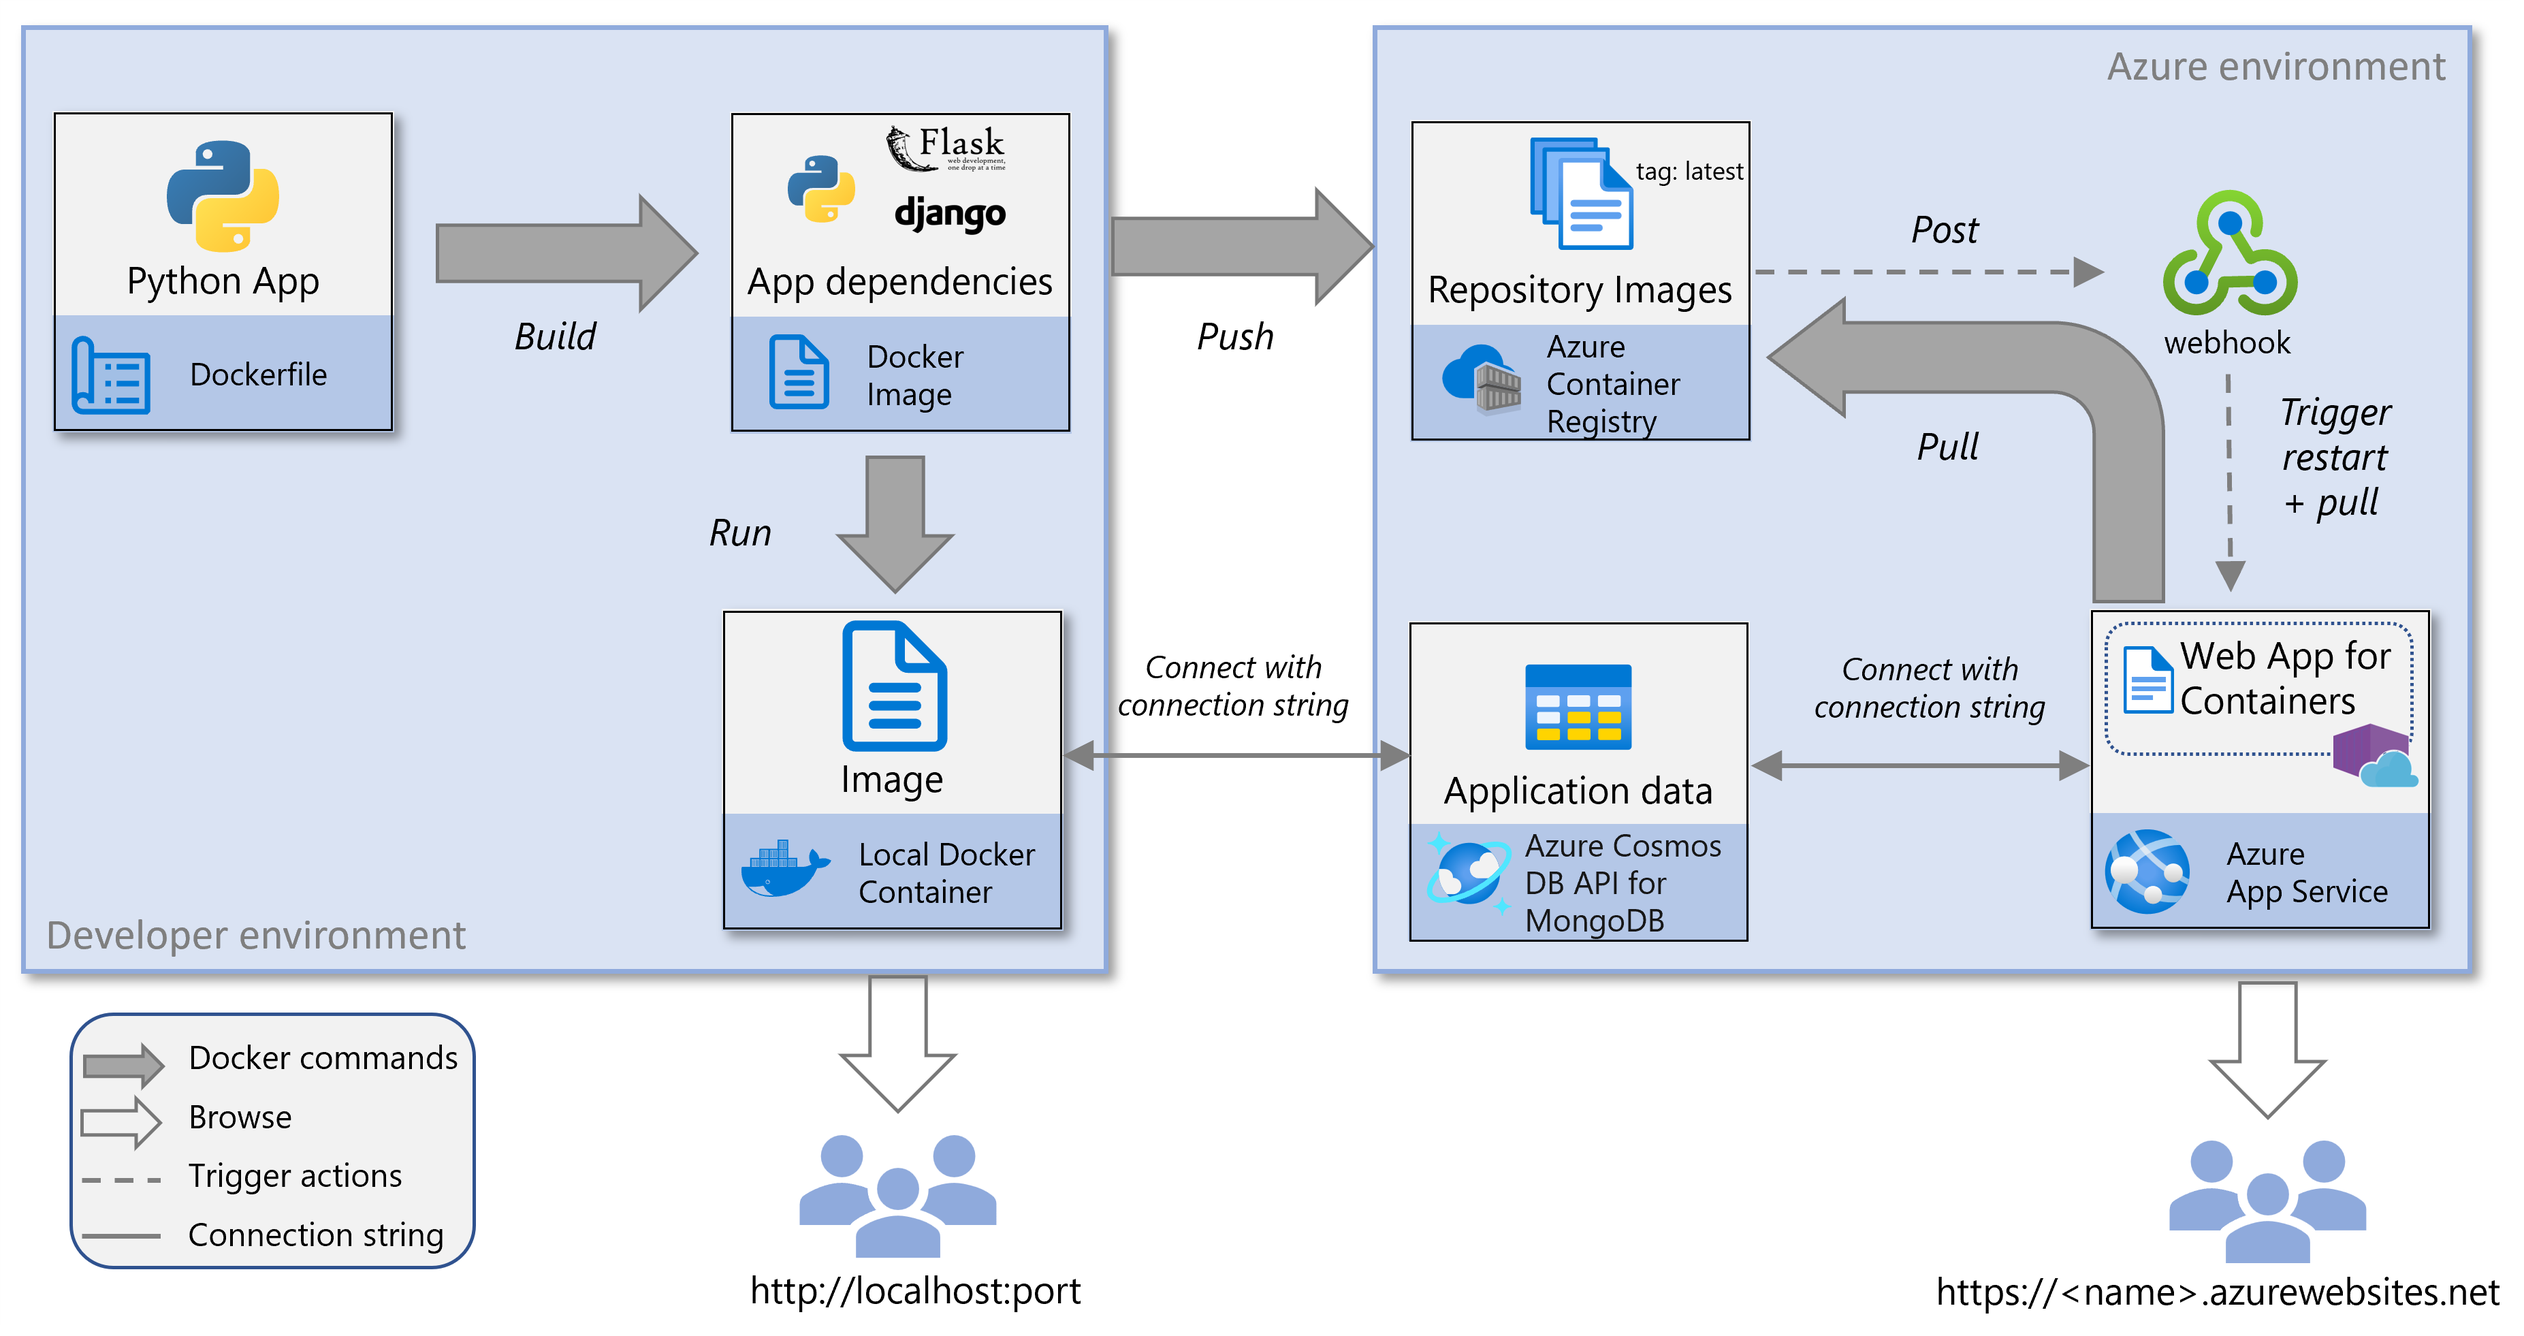
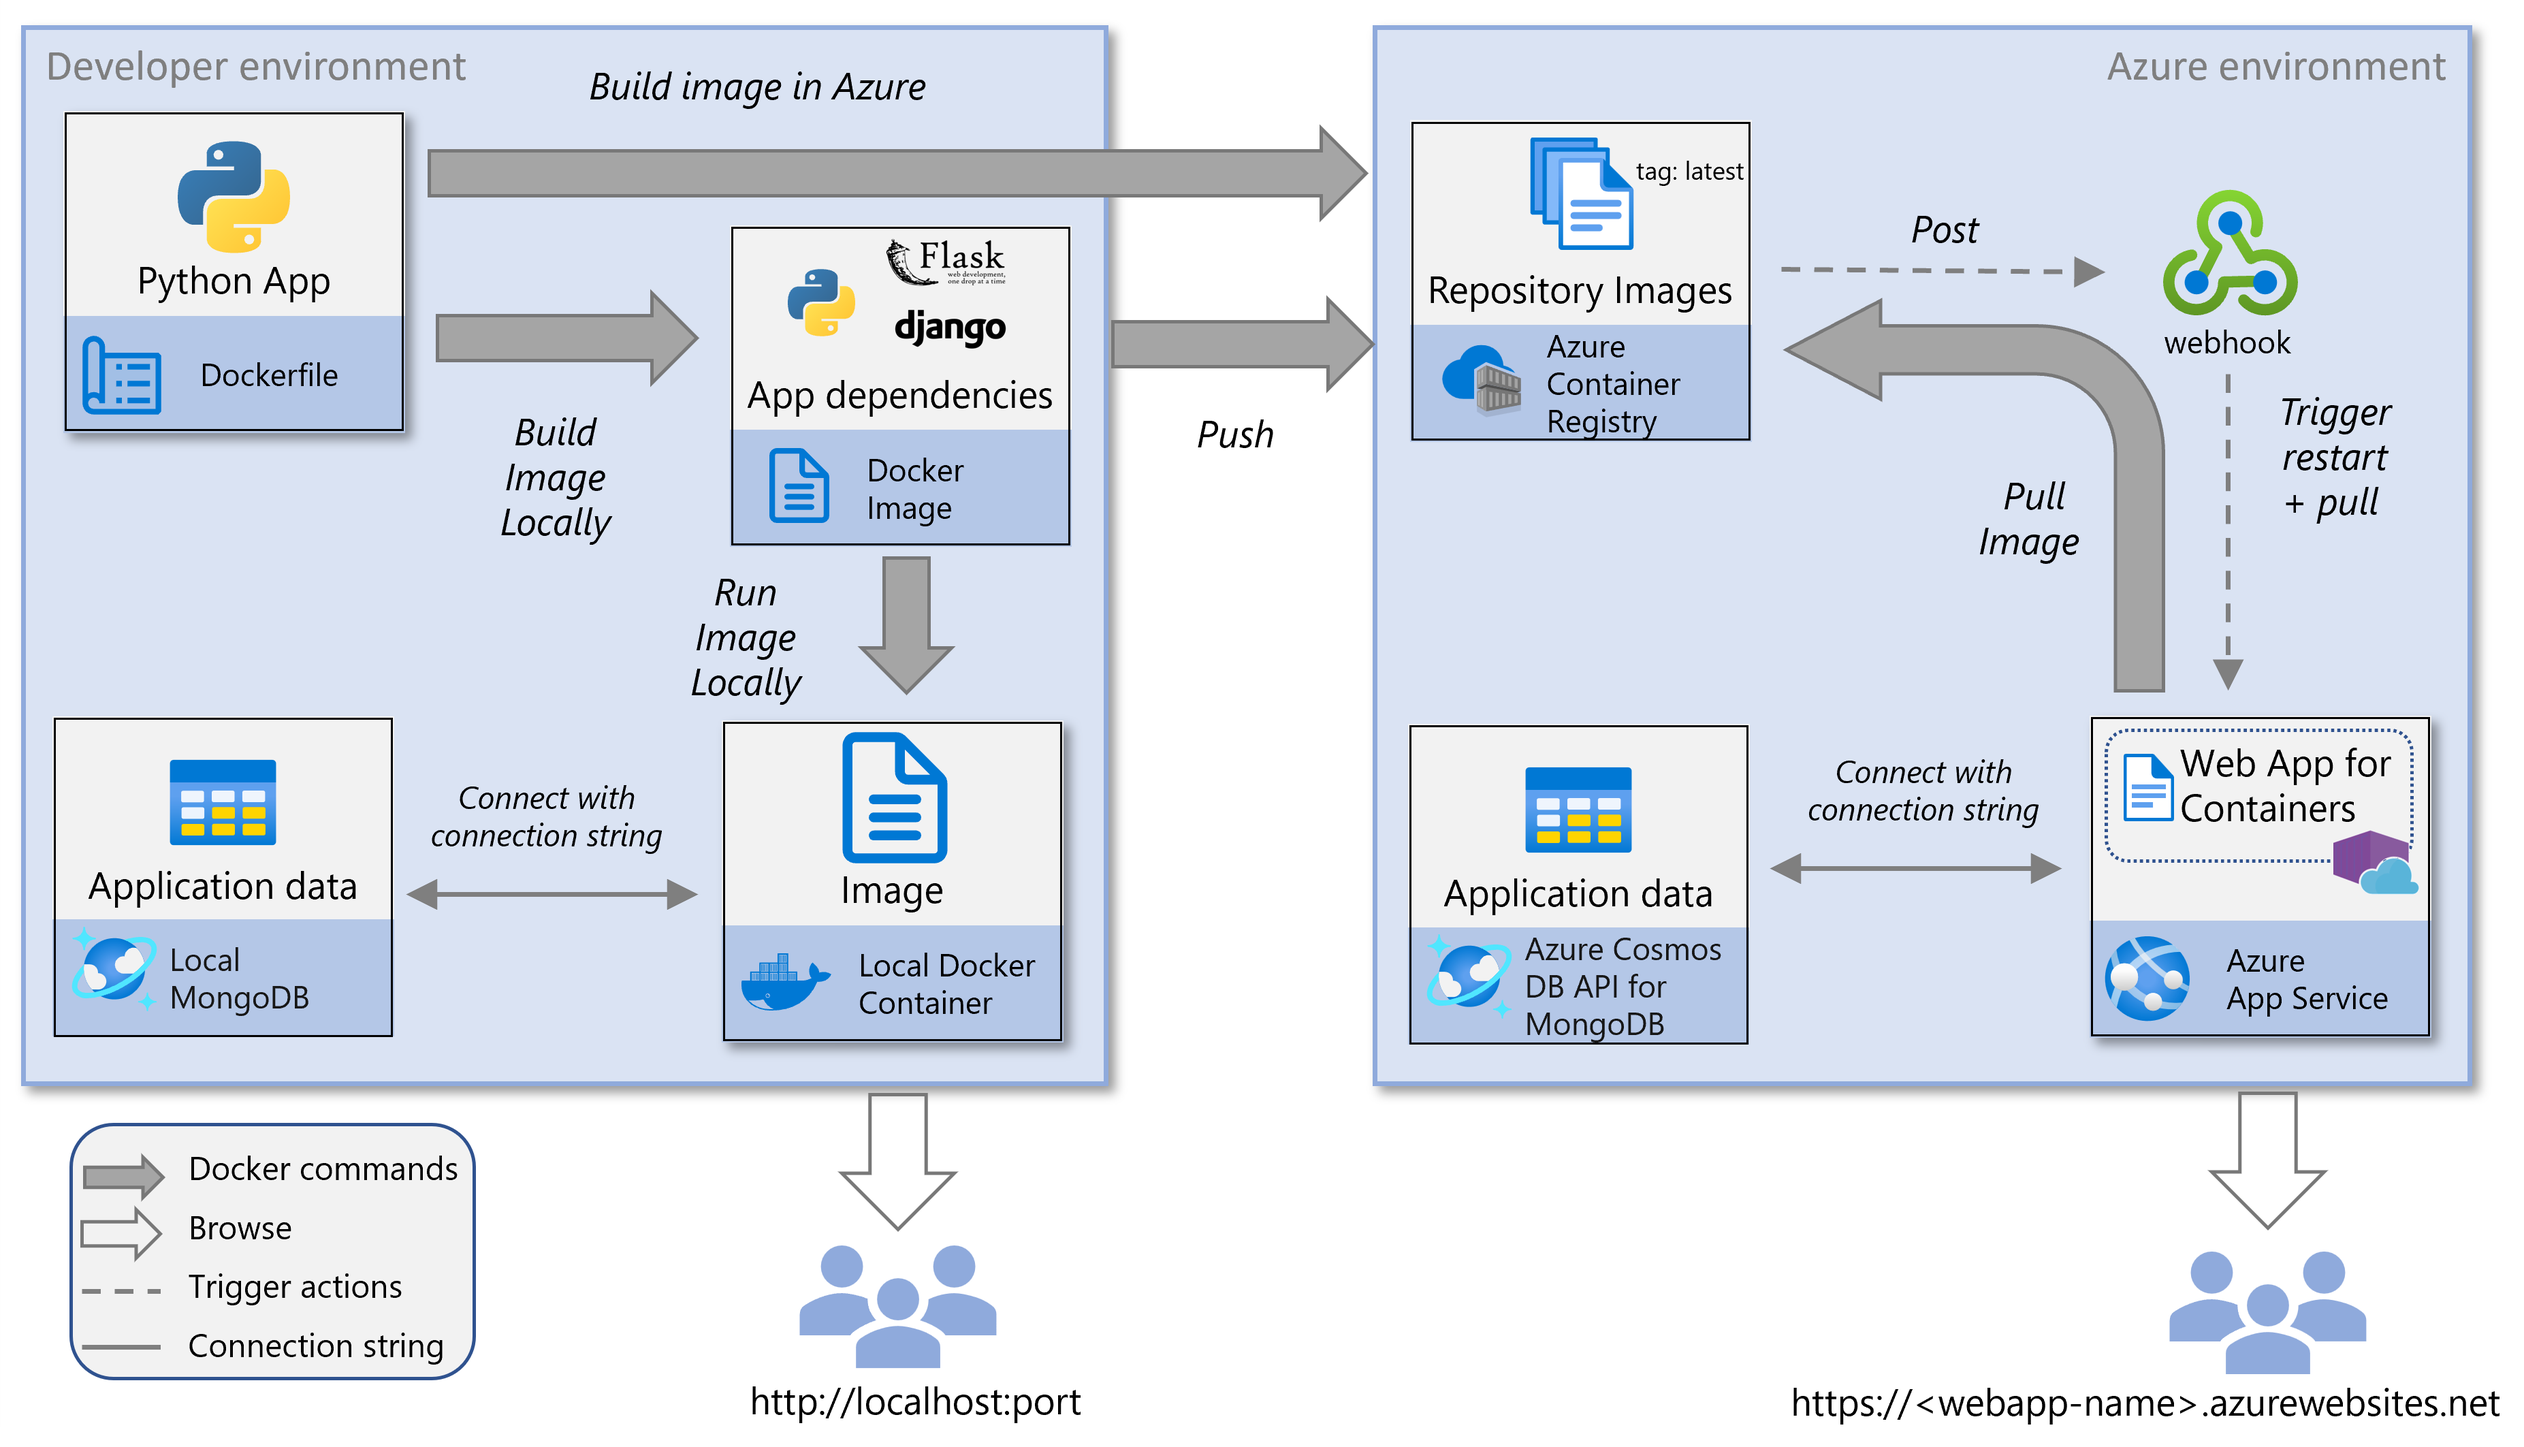
Update image.

diff --git a/articles/python/tutorial-containerize-deploy-python-web-app-azure-01.md b/articles/python/tutorial-containerize-deploy-python-web-app-azure-01.md
@@ -2,7 +2,7 @@
 title: "Tutorial: Containerized Python web apps on Azure"
 description: Overview - Create and deploy a containerized Python web app on Azure
 ms.topic: conceptual
-ms.date: 06/27/2022
+ms.date: 07/15/2022
 ms.custom: devx-track-python
 ms.prod: azure-python
 author: jess-johnson-msft
@@ -11,15 +11,15 @@ ms.author: jejohn
 
 # Overview: Containerized Python web apps on Azure
 
-This tutorial shows how to containerize a Python web app and deploy it to Azure. The single container web app is hosted in [Azure App Service][1] and uses [MongoDB for Azure Cosmos DB][2] to store data. The App Service [Web App for Containers][3] allows you to focus on composing your containers without worrying about managing and maintaining an underlying container orchestrator. Use Web App for Containers when you need more control over the runtime, framework, tooling, and packages of a web-based application.
+This tutorial shows you how to containerize a Python web app and deploy it to Azure. The single container web app is hosted in [Azure App Service][1] and uses [MongoDB for Azure Cosmos DB][2] to store data. The App Service [Web App for Containers][3] functionality allows you to focus on composing your containers without worrying about managing and maintaining an underlying container orchestrator. Use Web App for Containers when you need more control over the runtime, framework, tooling, and packages of a web-based application.
 
 In this tutorial you will:
 
-* Build and run a [Docker][4] container locally.
+* Build and run a [Docker][4] container locally. *This step is optional.*
 
 * Build a [Docker][4] container image directly in Azure.
 
-* Configure App Service to use the Docker container image.
+* Configure an App Service to create a web app based on the Docker container image.
 
 Following this tutorial, you'll have the basis for Continuous Integration (CI) and Continuous Deployment (CD) of a Python web app to Azure.
 
@@ -31,7 +31,7 @@ The service diagram supporting this tutorial shows two environments (developer e
 
 The components supporting this tutorial and shown in the diagram above are:
 
-* Azure App Service
+* [Azure App Service][1]
 
   * The underlying App Service functionality that enables containerization is Web App for Containers. Azure App Service uses the [Docker][4] container technology to host both built-in images and custom images.  In this tutorial, you'll build an image from Python code and deploy it to Web App for Containers.
 
@@ -43,7 +43,7 @@ The components supporting this tutorial and shown in the diagram above are:
 
   * In this tutorial, the registry source is Azure Container Registry, but you can also use Docker Hub or a private registry with minor modifications.
 
-* Azure Cosmos DB API for MongoDB
+* [Azure Cosmos DB API for MongoDB][2]
 
   * The API for MongoDB is a NoSQL database used in this tutorial to store data.
 
@@ -51,9 +51,9 @@ The components supporting this tutorial and shown in the diagram above are:
 
 ## Authentication
 
-In this tutorial, you'll use Docker locally to build a container image and deploy it to Azure App Service. The App Service pulls a container image from an Azure Container Registry repository.
+In this tutorial, you'll use Docker image (built locally or in Azure) and deploy it to Azure App Service. The App Service pulls the container image from an Azure Container Registry repository.
 
-The App Service uses [managed identity][5] to pull images from Azure Container Registry. Managed identity allows you to grant permissions to the web app so that it can access other Azure resources without the need for you to specify credentials. Specifically, this tutorial uses a system assigned managed identity. The managed identity is automatically set up for you when you configure App Service so that publish is from a Docker container.
+The App Service uses [managed identity][5] to pull images from Azure Container Registry. Managed identity allows you to grant permissions to the web app so that it can access other Azure resources without the need for you to specify credentials. Specifically, this tutorial uses a system assigned managed identity. The managed identity is automatically set up for you when you configure App Service with publishing from a Docker container.
 
 The tutorial sample web app also uses MongoDB to store data. The sample code connects to Cosmos DB via a connection string. 
 
@@ -67,9 +67,7 @@ To complete this tutorial, you'll need:
   * [Azure App Service][1] 
   * [MongoDB for Azure Cosmos DB][2] (or access to equivalent). To create an Azure Cosmos DB for MongoDB, you can use the steps for [Azure portal][12], [Azure CLI][13], [PowerShell][14], or [VS Code][15]. The sample tutorial requires that you specify a MongoDB connection string, a database name, and a collection name.
 
-* [Docker][4] installed locally
-
-* Visual Studio Code or Azure CLI
+* [Visual Studio Code][16] or [Azure CLI][17], depending on what tool you'll use.
 
   * For Visual Studio Code with the [Docker extension][6] and [Azure App Service extension][7].
 
@@ -77,6 +75,9 @@ To complete this tutorial, you'll need:
 
   * [PyMongo][8] for connecting to Mongo DB
   * [Flask][9] or [Django][10]
+
+* [Docker][4] installed locally if you want to run container locally.
+
 
 ## Sample app
 
@@ -98,3 +99,5 @@ You can start with sample app in the Django and Flask frameworks, or you can fol
 [13]: /azure/cosmos-db/scripts/cli/mongodb/create
 [14]: /azure/cosmos-db/scripts/powershell/mongodb/create
 [15]: https://marketplace.visualstudio.com/items?itemName=ms-azuretools.vscode-cosmosdb
+[16]: https://code.visualstudio.com/
+[17]: /cli/azure/what-is-azure-cli
